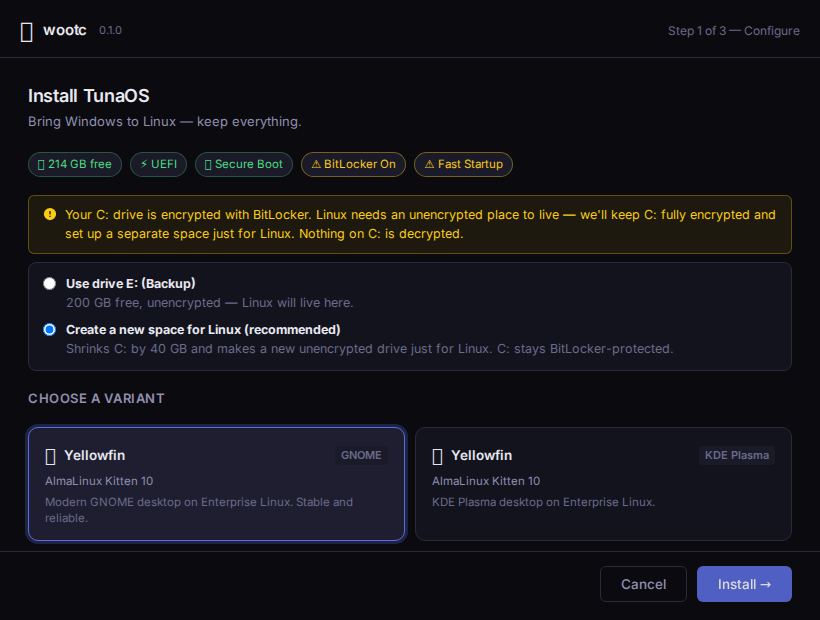
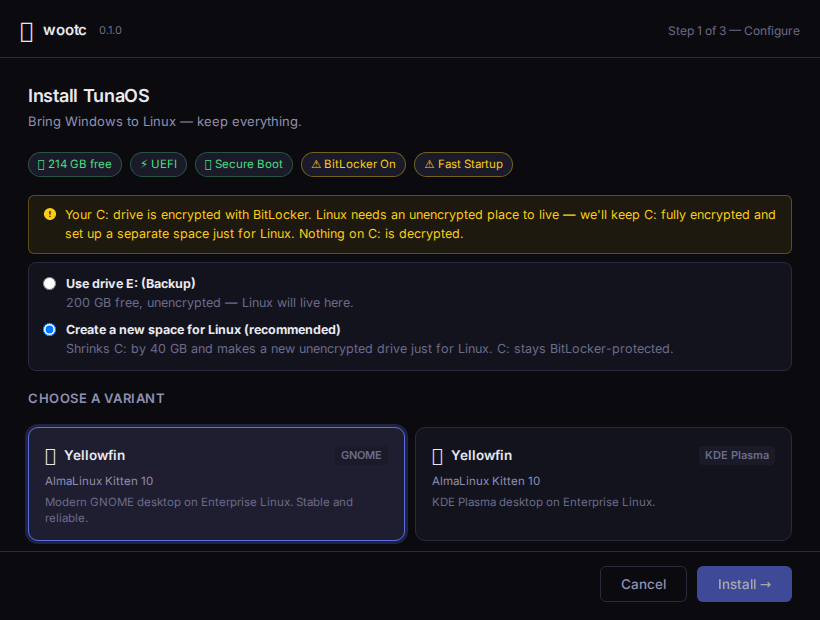
feat: VM viewer (§6.2 boot root.disk in QEMU) + discard passthrough (§3.6)
- BootInVM/GetVMCapability: launch QEMU with WHPX on the installed
  root.vhdx so users see their Linux in a window without rebooting (same
  disk, changes persist). Probes for the bundled qemu + WHPX feature and
  explains clearly when either is missing. Control-panel 'Boot in VM'
  card, gated on capability. Bundling qemu-for-windows + edk2 into
  C:\wootc\qemu\ is a release step.
- §3.6: --discard=unmap on the qemu-nbd attaches so guest fstrim reclaims
  space back through the dynamic VHDX (addresses the monotonic-growth
  concern from the VHDX review).
- Playwright 9/9 with a VM-mode scenario + screenshot.

Changed region(s): [[0.8232, 0.8887, 0.9756, 0.9806]]

diff --git a/app/frontend/src/main.js b/app/frontend/src/main.js
@@ -1,5 +1,5 @@
 import '../src/style.css';
-import { GetImages, GetSystemInfo, StartInstall, CancelInstall, GetStatus, Reboot, ExistingInstallFound, GetMode, GetMigrationCategories, ConvertCategory, ImportBrowserData, GetAppMigrations, GetOfficeMigration, GetBranding, CreateDataPartition, GetUninstallInfo, UninstallWith } from '../wailsjs/go/main/App';
+import { GetImages, GetSystemInfo, StartInstall, CancelInstall, GetStatus, Reboot, ExistingInstallFound, GetMode, GetMigrationCategories, ConvertCategory, ImportBrowserData, GetAppMigrations, GetOfficeMigration, GetBranding, CreateDataPartition, GetUninstallInfo, UninstallWith, GetVMCapability, BootInVM } from '../wailsjs/go/main/App';
 import { EventsOn } from '../wailsjs/runtime/runtime';
 
 // ── State ─────────────────────────────────────────────────────────────────────
@@ -125,6 +125,7 @@ async function init() {
 
   if (existing) {
     try { state.uninstallInfo = await GetUninstallInfo(); } catch { state.uninstallInfo = {}; }
+    try { state.vmCapability = await GetVMCapability(); } catch { state.vmCapability = null; }
   }
   state.screen = existing ? 'control' : 'launchpad';
   render();
@@ -463,6 +464,28 @@ function renderControlPanel() {
   screen.appendChild(opts);
 
   wrap.appendChild(screen);
+
+  // Boot-in-VM (§6.2): view Linux without rebooting, when the VM viewer is
+  // present and WHPX is on.
+  const vm = state.vmCapability;
+  if (vm) {
+    const vmCard = el('div');
+    vmCard.style.cssText = 'background:var(--bg-card);border:1.5px solid var(--border);border-radius:8px;padding:14px 16px;margin-top:10px;display:flex;align-items:center;gap:12px';
+    vmCard.innerHTML = `<span style="font-size:20px">🖥️</span>
+      <div style="flex:1;min-width:0">
+        <div style="font-weight:600;font-size:13px">Try Linux in a window</div>
+        <div style="font-size:11.5px;color:var(--text-muted)">${vm.available
+          ? 'Boot your installed TunaOS in a window without restarting. Changes persist — it\'s the same system.'
+          : vm.reason}</div>
+      </div>`;
+    const vmBtn = btn('Boot in VM', 'btn btn-ghost', async () => {
+      try { await BootInVM(); } catch (e) { alert('Could not start the VM: ' + e); }
+    });
+    vmBtn.style.flexShrink = '0';
+    vmBtn.disabled = !vm.available;
+    vmCard.appendChild(vmBtn);
+    screen.appendChild(vmCard);
+  }
 
   const footer = el('div', 'footer');
   footer.appendChild(btn('Reinstall', 'btn btn-ghost', () => { state.screen = 'launchpad'; render(); }));

diff --git a/tests/gui/gui.spec.js b/tests/gui/gui.spec.js
@@ -91,6 +91,15 @@ test('control panel — partition-aware uninstall options', async ({ page }) => 
   await shot(page, '05-control-panel');
 });
 
+test('control panel — Boot in VM offered when available (§6.2)', async ({ page }) => {
+  await boot(page, { mode: 'installer', images: IMAGES, sysinfo: SYSINFO, existing: true,
+    uninstall: { found: true, storageDrive: 'C', diskPath: 'C:\\wootc\\disks\\root.vhdx', diskSizeGB: 40 },
+    vm: { available: true, diskPath: 'C:\\wootc\\disks\\root.vhdx' } });
+  await expect(page.getByText('Try Linux in a window')).toBeVisible();
+  await expect(page.getByRole('button', { name: 'Boot in VM' })).toBeEnabled();
+  await shot(page, '09-vm-mode');
+});
+
 test('installer — BitLocker offers unencrypted-partition path (no forced decrypt)', async ({ page }) => {
   const sysinfo = { ...SYSINFO, bitLockerOn: true, bitLockerState: 'on',
     dataPartitions: [{ letter: 'E', label: 'Backup', freeGB: 200, encrypted: false }] };

diff --git a/app/frontend/wailsjs/go/main/App.js b/app/frontend/wailsjs/go/main/App.js
@@ -51,6 +51,14 @@ export function UninstallWith(arg1) {
   return window['go']['main']['App']['UninstallWith'](arg1);
 }
 
+export function GetVMCapability() {
+  return window['go']['main']['App']['GetVMCapability']();
+}
+
+export function BootInVM() {
+  return window['go']['main']['App']['BootInVM']();
+}
+
 export function GetMode() {
   return window['go']['main']['App']['GetMode']();
 }

diff --git a/tests/gui/mock-backend.js b/tests/gui/mock-backend.js
@@ -40,6 +40,8 @@ function makeApp(mock) {
     CreateDataPartition: () => P({ letter: 'D', label: 'wootc-data', freeGB: 60, encrypted: false }),
     GetUninstallInfo: () => P(mock.uninstall || { found: false }),
     UninstallWith: () => P(),
+    GetVMCapability: () => P(mock.vm || { available: false, reason: '' }),
+    BootInVM: () => P(),
   };
 }
 

diff --git a/app/vm_windows.go b/app/vm_windows.go
@@ -1,0 +1,88 @@
+//go:build windows
+
+package main
+
+import (
+	"fmt"
+	"os"
+	"os/exec"
+	"path/filepath"
+	"strings"
+	"syscall"
+)
+
+// VM modes (SPEC §6.2): boot the installed root.disk directly in a QEMU
+// window on Windows using WHPX acceleration — the user sees their Linux
+// system without rebooting. Same disk, same state as the dual-boot path.
+//
+// QEMU-for-Windows + edk2 firmware are bundled under C:\wootc\qemu\ by the
+// release. This code is the launcher + capability probe.
+
+// VMCapability tells the GUI whether "Boot in VM" can run and why not.
+type VMCapability struct {
+	Available bool   `json:"available"`
+	Reason    string `json:"reason"`
+	DiskPath  string `json:"diskPath"`
+}
+
+func qemuDir() string  { return filepath.Join(wootcDir(), "qemu") }
+func qemuExe() string  { return filepath.Join(qemuDir(), "qemu-system-x86_64.exe") }
+func edk2Code() string { return filepath.Join(qemuDir(), "edk2-x86_64-code.fd") }
+
+// GetVMCapability reports whether the installed disk can be booted in a VM.
+func (a *App) GetVMCapability() VMCapability {
+	info := getUninstallInfo() // reuses root.disk discovery
+	if !info.Found {
+		return VMCapability{Available: false, Reason: "No installed TunaOS disk was found."}
+	}
+	if _, err := os.Stat(qemuExe()); err != nil {
+		return VMCapability{Available: false, DiskPath: info.DiskPath,
+			Reason: "The VM viewer isn't installed. Reinstall wootc with the VM option to enable it."}
+	}
+	if !whpxAvailable() {
+		return VMCapability{Available: false, DiskPath: info.DiskPath,
+			Reason: "Windows Hypervisor Platform is turned off. Enable it in " +
+				"'Turn Windows features on or off' to run Linux in a window."}
+	}
+	return VMCapability{Available: true, DiskPath: info.DiskPath}
+}
+
+// BootInVM launches QEMU on the installed root.disk in its own window
+// (SPEC §6.2). Changes made in the VM persist — it's the same filesystem
+// as the dual-boot install. Returns once QEMU has started (non-blocking).
+func (a *App) BootInVM() error {
+	cap := a.GetVMCapability()
+	if !cap.Available {
+		return fmt.Errorf("%s", cap.Reason)
+	}
+	args := []string{
+		"-accel", "whpx",
+		"-m", "4G", "-smp", "4",
+		"-machine", "q35",
+		"-drive", "file=" + cap.DiskPath + ",format=vhdx,if=virtio",
+		"-drive", "if=pflash,format=raw,readonly=on,file=" + edk2Code(),
+		"-nic", "user,hostfwd=tcp::2222-:22",
+		"-display", "gtk",
+		"-name", "TunaOS (VM)",
+	}
+	cmd := exec.Command(qemuExe(), args...)
+	cmd.Dir = qemuDir()
+	cmd.SysProcAttr = &syscall.SysProcAttr{HideWindow: false}
+	if err := cmd.Start(); err != nil {
+		return fmt.Errorf("launching QEMU: %w", err)
+	}
+	// Detach: the VM window outlives this call.
+	go func() { _ = cmd.Wait() }()
+	return nil
+}
+
+// whpxAvailable checks whether the Windows Hypervisor Platform feature is
+// enabled (required for QEMU's whpx accelerator).
+func whpxAvailable() bool {
+	out, err := runPowerShellOutput(
+		`(Get-WindowsOptionalFeature -Online -FeatureName HypervisorPlatform -ErrorAction SilentlyContinue).State`)
+	if err != nil {
+		return false
+	}
+	return strings.TrimSpace(out) == "Enabled"
+}

diff --git a/app/vm_other.go b/app/vm_other.go
@@ -1,0 +1,21 @@
+//go:build !windows
+
+package main
+
+import "fmt"
+
+// VMCapability mirrors the Windows type so the frontend bindings are stable
+// across platforms.
+type VMCapability struct {
+	Available bool   `json:"available"`
+	Reason    string `json:"reason"`
+	DiskPath  string `json:"diskPath"`
+}
+
+func (a *App) GetVMCapability() VMCapability {
+	return VMCapability{Available: false, Reason: "The VM viewer is only available on Windows."}
+}
+
+func (a *App) BootInVM() error {
+	return fmt.Errorf("the VM viewer is only available on Windows")
+}